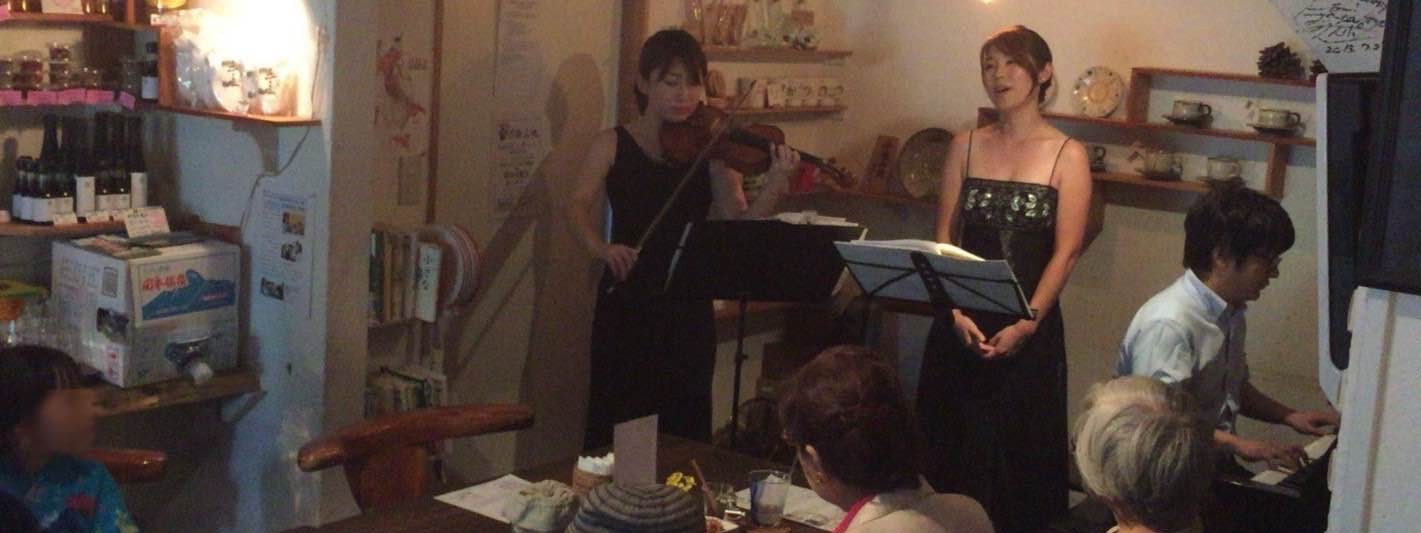
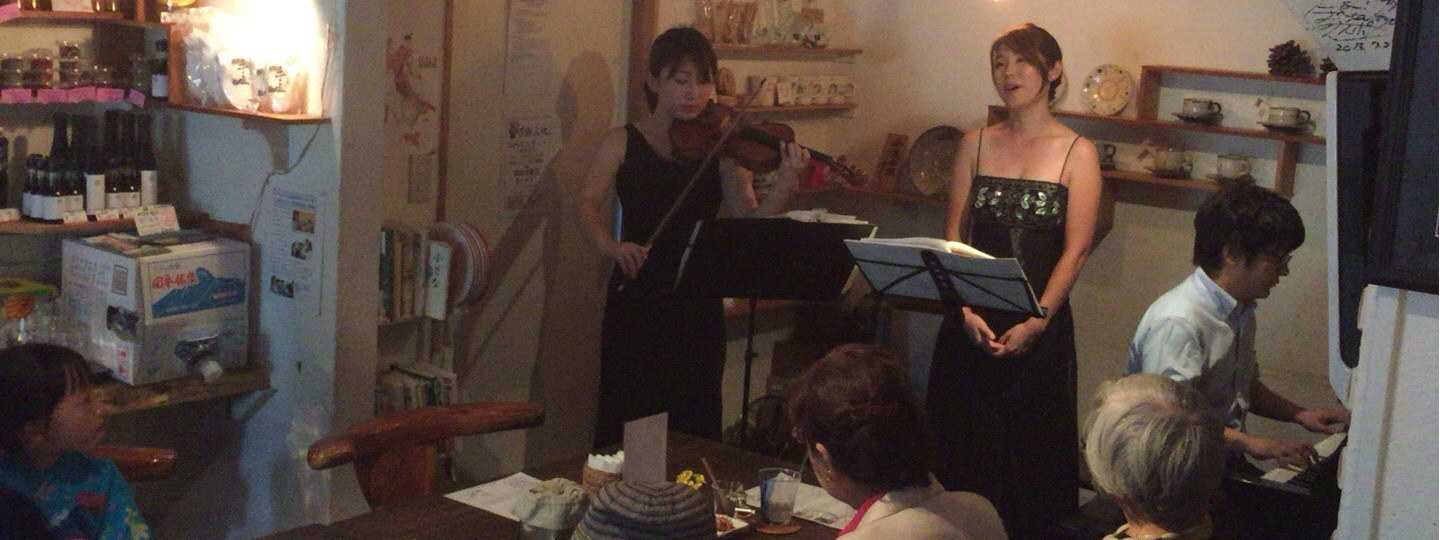
モザイクなしの写真を使用。

diff --git a/gulpfile.js b/gulpfile.js
@@ -43,7 +43,7 @@ gulp.task('reload', function () {
  * Watch html/md files, run jekyll & reload BrowserSync
  */
 gulp.task('watch', function () {
-    gulp.watch(['*.html', '*.md', '_layouts/*.html', '_includes/*', '_posts/*', 'assets/css/*'], ['jekyll-rebuild']);
+    gulp.watch(['*.html', '*.md', '_layouts/*.html', '_includes/*', '_posts/*', 'assets/css/*', 'assets/*', '_data/*'], ['jekyll-rebuild']);
     gulp.watch(['_site/*'], ['reload'])
 });
 
